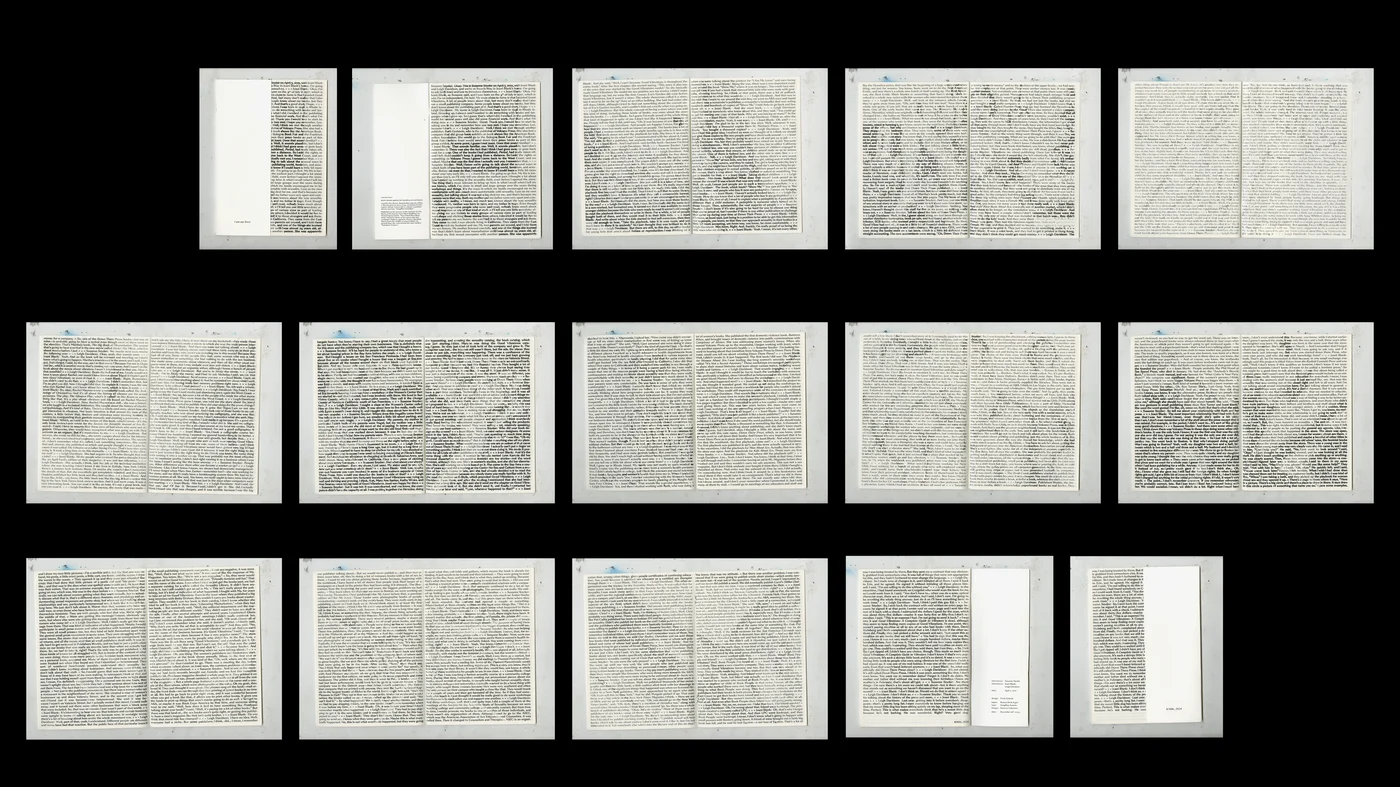
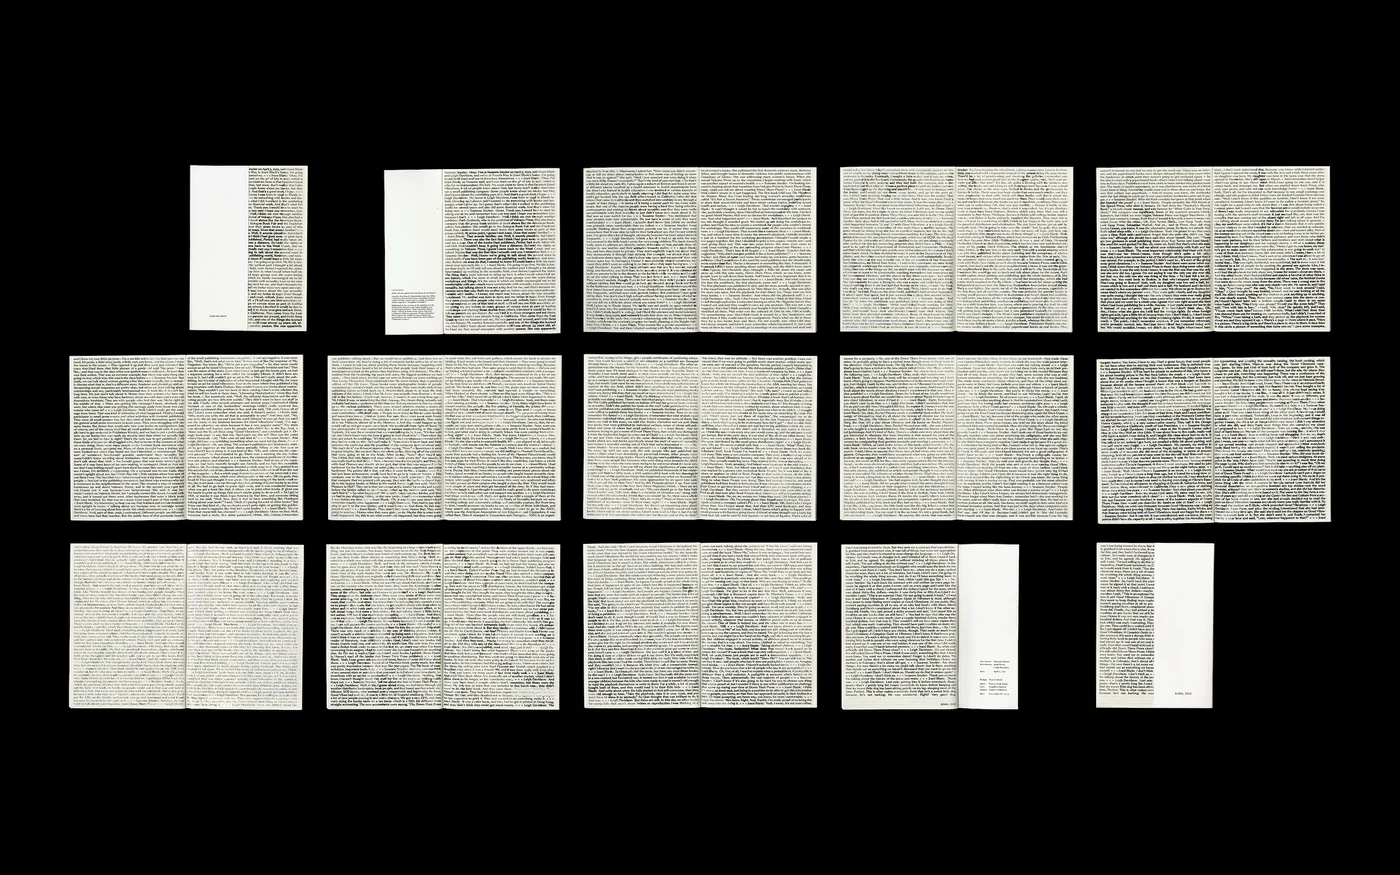
img updates

diff --git a/theatre/index.html b/theatre/index.html
@@ -141,7 +141,7 @@
             
             <div class="project-section" id="E08">
                 <div class="project-image">
-                    <img src="/content/images/E08/1.webp" alt="Book" loading="lazy" data-images='["/content/images/E08/1.webp","/content/images/E08/10.webp","/content/images/E08/11.webp","/content/images/E08/12.webp","/content/images/E08/13.webp","/content/images/E08/15.webp","/content/images/E08/16.webp","/content/images/E08/2.webp","/content/images/E08/3.webp","/content/images/E08/4.webp","/content/images/E08/6.webp","/content/images/E08/8.webp","/content/images/E08/9.webp","/content/images/E08/img_0031.webp","/content/images/E08/img_0041.webp","/content/images/E08/img_0045.webp"]'>
+                    <img src="/content/images/E08/01.webp" alt="Book" loading="lazy" data-images='["/content/images/E08/01.webp","/content/images/E08/10.webp","/content/images/E08/11.webp","/content/images/E08/12.webp","/content/images/E08/13.webp","/content/images/E08/15.webp","/content/images/E08/16.webp","/content/images/E08/23.webp","/content/images/E08/3.webp","/content/images/E08/4.webp","/content/images/E08/6.webp","/content/images/E08/8.webp","/content/images/E08/9.webp","/content/images/E08/img_0031.webp","/content/images/E08/img_0045.webp"]'>
                 </div>
                 <div class="text-columns">
                     <div id="gallery-info">
@@ -152,7 +152,7 @@
                     <div class="empty-column"></div>
                     <div class="empty-column"></div>
                     <div id="gallery-counter-container">
-                        <p id="gallery-counter">[1/16]</p>
+                        <p id="gallery-counter">[1/15]</p>
                     </div>
                 </div>
             </div>
@@ -933,7 +933,7 @@
             
             <div class="project-section" id="E18">
                 <div class="project-image">
-                    <img src="/content/images/E18/1.webp" alt="Porn Magazine" loading="lazy" data-images='["/content/images/E18/1.webp","/content/images/E18/2.webp","/content/images/E18/lover-1.webp","/content/images/E18/lover-11.webp","/content/images/E18/lover-12.webp","/content/images/E18/lover-2.webp","/content/images/E18/lover-3.webp","/content/images/E18/lover-4.webp","/content/images/E18/lover-5.webp","/content/images/E18/lover-7.webp","/content/images/E18/lover-8.webp","/content/images/E18/lover-9.webp"]'>
+                    <img src="/content/images/E18/1.webp" alt="Porn Magazine" loading="lazy" data-images='["/content/images/E18/1.webp","/content/images/E18/lover-0.webp","/content/images/E18/lover-_1.webp","/content/images/E18/lover-_10.webp","/content/images/E18/lover-_11.webp","/content/images/E18/lover-_12.webp","/content/images/E18/lover-_13.webp","/content/images/E18/lover-_14.webp","/content/images/E18/lover-_2.webp","/content/images/E18/lover-_3.webp","/content/images/E18/lover-_4.webp","/content/images/E18/lover-_5.webp","/content/images/E18/lover-_6.webp","/content/images/E18/lover-_7.webp","/content/images/E18/lover-_8.webp","/content/images/E18/lover-_9.webp"]'>
                 </div>
                 <div class="text-columns">
                     <div id="gallery-info">
@@ -944,7 +944,7 @@
                     <div class="empty-column"></div>
                     <div class="empty-column"></div>
                     <div id="gallery-counter-container">
-                        <p id="gallery-counter">[1/12]</p>
+                        <p id="gallery-counter">[1/16]</p>
                     </div>
                 </div>
             </div>

diff --git a/archive/E18/index.html b/archive/E18/index.html
@@ -70,17 +70,21 @@
             </div>
             <div class="solo-project-images">
             <img src="/content/images/E18/1.webp" alt="Porn Magazine">
-            <img src="/content/images/E18/2.webp" alt="Porn Magazine">
-            <img src="/content/images/E18/lover-1.webp" alt="Porn Magazine">
-            <img src="/content/images/E18/lover-11.webp" alt="Porn Magazine">
-            <img src="/content/images/E18/lover-12.webp" alt="Porn Magazine">
-            <img src="/content/images/E18/lover-2.webp" alt="Porn Magazine">
-            <img src="/content/images/E18/lover-3.webp" alt="Porn Magazine">
-            <img src="/content/images/E18/lover-4.webp" alt="Porn Magazine">
-            <img src="/content/images/E18/lover-5.webp" alt="Porn Magazine">
-            <img src="/content/images/E18/lover-7.webp" alt="Porn Magazine">
-            <img src="/content/images/E18/lover-8.webp" alt="Porn Magazine">
-            <img src="/content/images/E18/lover-9.webp" alt="Porn Magazine">
+            <img src="/content/images/E18/lover-0.webp" alt="Porn Magazine">
+            <img src="/content/images/E18/lover-_1.webp" alt="Porn Magazine">
+            <img src="/content/images/E18/lover-_10.webp" alt="Porn Magazine">
+            <img src="/content/images/E18/lover-_11.webp" alt="Porn Magazine">
+            <img src="/content/images/E18/lover-_12.webp" alt="Porn Magazine">
+            <img src="/content/images/E18/lover-_13.webp" alt="Porn Magazine">
+            <img src="/content/images/E18/lover-_14.webp" alt="Porn Magazine">
+            <img src="/content/images/E18/lover-_2.webp" alt="Porn Magazine">
+            <img src="/content/images/E18/lover-_3.webp" alt="Porn Magazine">
+            <img src="/content/images/E18/lover-_4.webp" alt="Porn Magazine">
+            <img src="/content/images/E18/lover-_5.webp" alt="Porn Magazine">
+            <img src="/content/images/E18/lover-_6.webp" alt="Porn Magazine">
+            <img src="/content/images/E18/lover-_7.webp" alt="Porn Magazine">
+            <img src="/content/images/E18/lover-_8.webp" alt="Porn Magazine">
+            <img src="/content/images/E18/lover-_9.webp" alt="Porn Magazine">
         </div>
     </main>
 

diff --git a/archive/E08/index.html b/archive/E08/index.html
@@ -69,21 +69,20 @@
                 </div>
             </div>
             <div class="solo-project-images">
-            <img src="/content/images/E08/1.webp" alt="Book">
+            <img src="/content/images/E08/01.webp" alt="Book">
             <img src="/content/images/E08/10.webp" alt="Book">
             <img src="/content/images/E08/11.webp" alt="Book">
             <img src="/content/images/E08/12.webp" alt="Book">
             <img src="/content/images/E08/13.webp" alt="Book">
             <img src="/content/images/E08/15.webp" alt="Book">
             <img src="/content/images/E08/16.webp" alt="Book">
-            <img src="/content/images/E08/2.webp" alt="Book">
+            <img src="/content/images/E08/23.webp" alt="Book">
             <img src="/content/images/E08/3.webp" alt="Book">
             <img src="/content/images/E08/4.webp" alt="Book">
             <img src="/content/images/E08/6.webp" alt="Book">
             <img src="/content/images/E08/8.webp" alt="Book">
             <img src="/content/images/E08/9.webp" alt="Book">
             <img src="/content/images/E08/img_0031.webp" alt="Book">
-            <img src="/content/images/E08/img_0041.webp" alt="Book">
             <img src="/content/images/E08/img_0045.webp" alt="Book">
         </div>
     </main>

diff --git a/archive/A253/index.html b/archive/A253/index.html
@@ -79,7 +79,7 @@
             <div id="prev-project" data-prev-id="W10">
                 <span>previous</span>
             </div>
-            <div id="next-project" data-next-id="W03">
+            <div id="next-project" data-next-id="E14">
                 <span>next</span>
             </div>
         </div>

diff --git a/archive/E04/index.html b/archive/E04/index.html
@@ -94,7 +94,7 @@
 
     <section>
         <div class="projects-navigator">
-            <div id="prev-project" data-prev-id="W02">
+            <div id="prev-project" data-prev-id="A085">
                 <span>previous</span>
             </div>
             <div id="next-project" data-next-id="W02">
